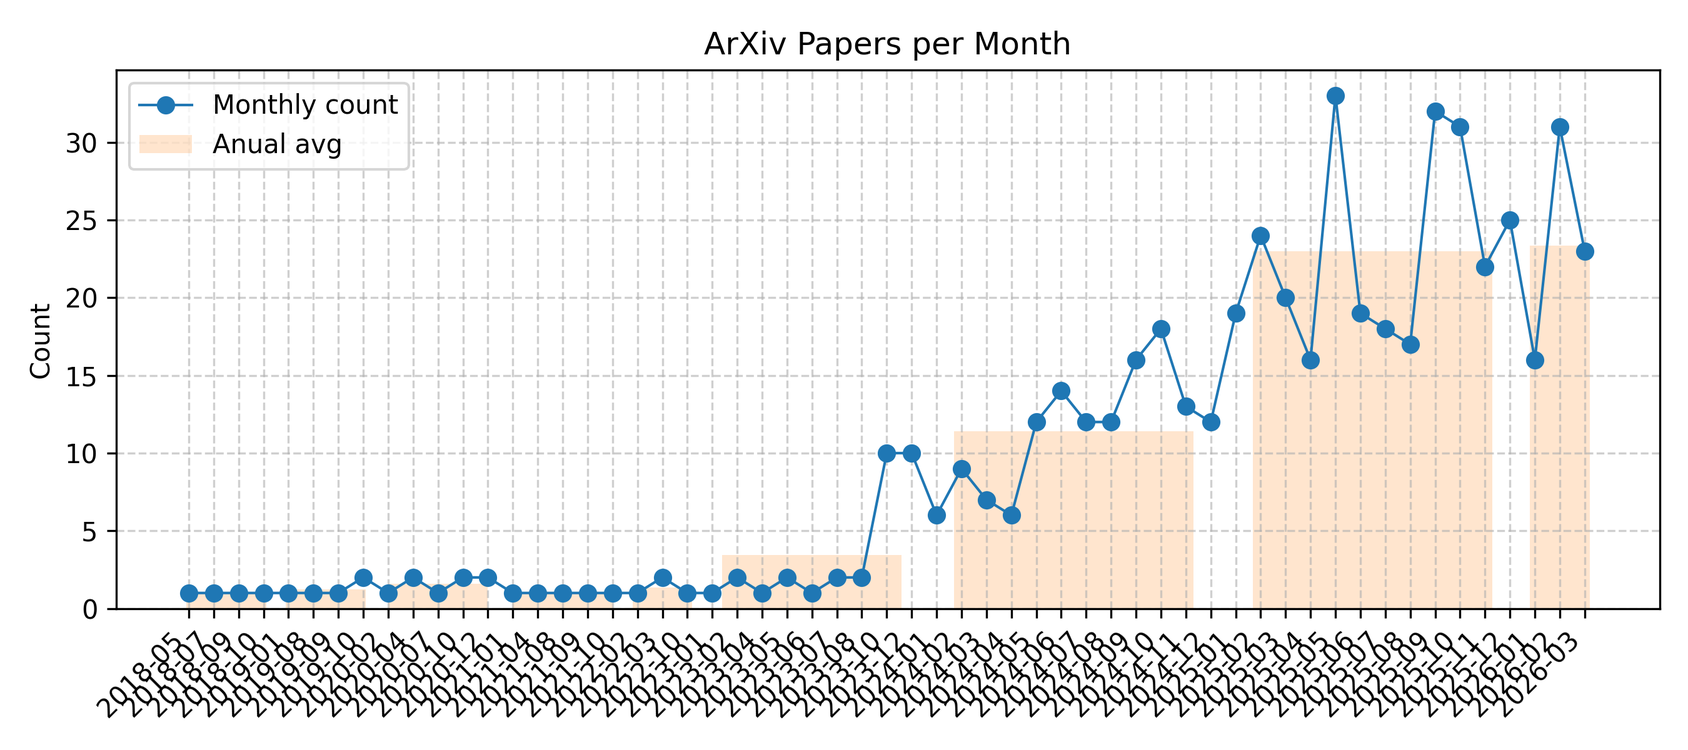
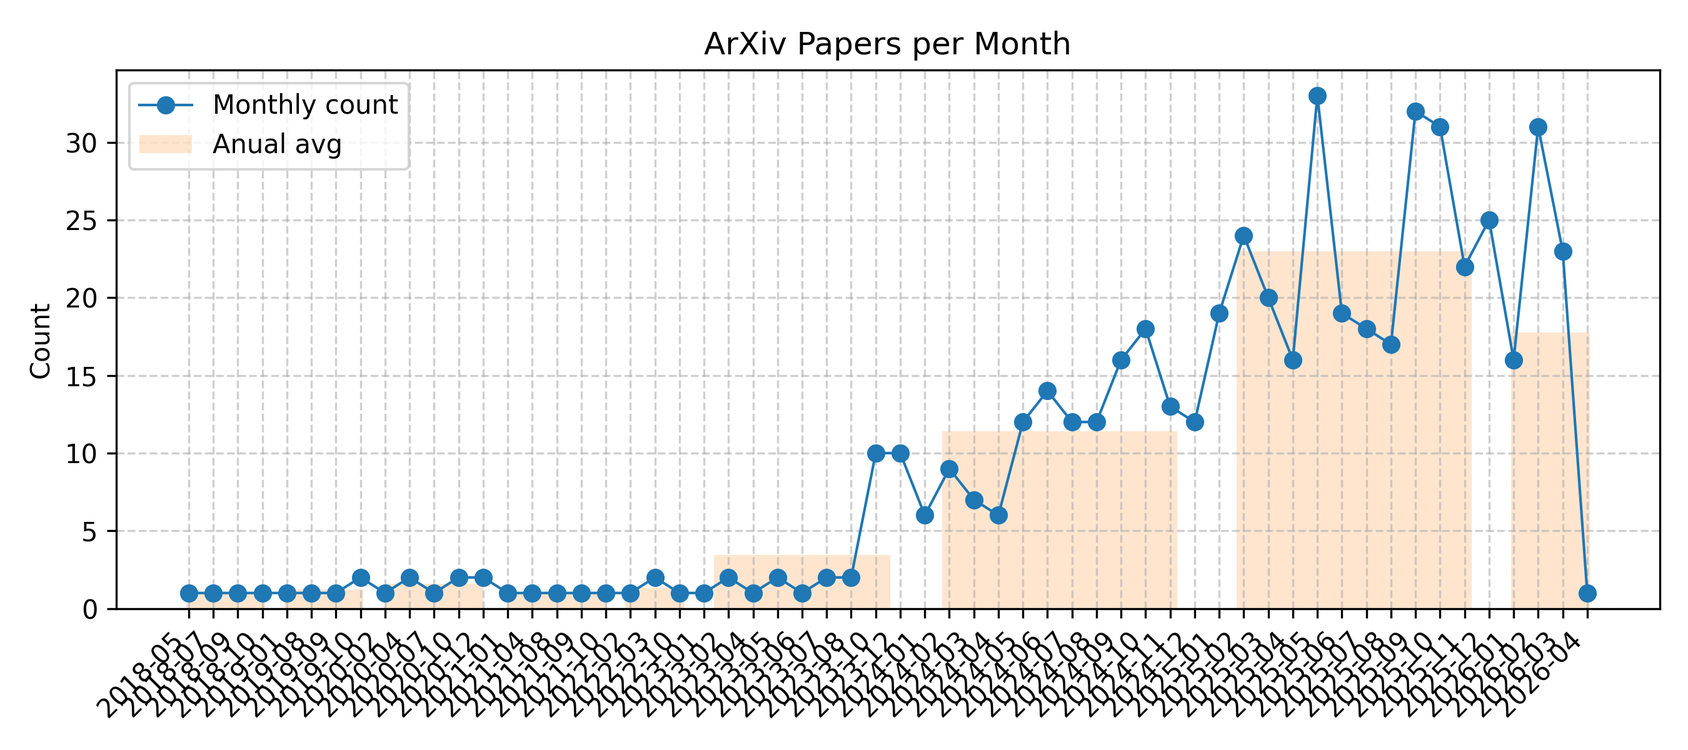
Github Action Automatic Update Mobile NPU LLM Arxiv Papers

Changed region(s): [[0.0622, 0.0925, 0.9644, 0.9558], [0.1556, 0.4008, 0.1867, 0.4933]]

diff --git a/README.md b/README.md
@@ -5,7 +5,7 @@
 
 For more carefully curated articles, you can refer to this [repository](https://github.com/bansky-cl/Mobile_NPU_LLM_Papers).
 
-## Updated on 2026.04.05
+## Updated on 2026.04.06
 
 ![Monthly Trend](imgs/trend.png)
 
@@ -18,7 +18,7 @@ For more carefully curated articles, you can refer to this [repository](https://
 |**2025-09-27**|**Scaling LLM Test-Time Compute with Mobile NPU on Smartphones**|cs.DC, cs.AI| <details><summary>Full Abstract</summary>Deploying Large Language Models (LLMs) on mobile devices faces the challenge of insufficient performance in smaller models and excessive resource consumption in larger ones. This paper highlights that mobile Neural Processing Units (NPUs) have underutilized computational resources, particularly their matrix multiplication units, during typical LLM inference. To leverage this wasted compute capacity, we propose applying parallel test-time scaling techniques on mobile NPUs to enhance the performance of smaller LLMs. However, this approach confronts inherent NPU challenges, including inadequate hardware support for fine-grained quantization and low efficiency in general-purpose computations. To overcome these, we introduce two key techniques: a hardware-aware tile quantization scheme that aligns group quantization with NPU memory access patterns, and efficient LUT-based replacements for complex operations such as Softmax and dequantization. We design and implement an end-to-end inference system that leverages the NPU's compute capability to support test-time scaling on Qualcomm Snapdragon platforms. Experiments show our approach brings significant speedups: up to 19.0 for mixed-precision GEMM and 2.2 for Softmax. More importantly, we demonstrate that smaller models using test-time scaling can match or exceed the accuracy of larger models, achieving a new performance-cost Pareto frontier.</details>|[2509.23324v1](http://arxiv.org/abs/2509.23324v1)| null|
 |**2024-12-15**|**Fast On-device LLM Inference with NPUs**|cs.AI| <details><summary>Full Abstract</summary>On-device inference for Large Language Models (LLMs), driven by increasing privacy concerns and advancements of mobile-sized models, has gained significant interest. However, even mobile-sized LLMs (e.g., Gemma-2B) encounter unacceptably high inference latency, often bottlenecked by the prefill stage in tasks like screen UI understanding.   We present llm.npu, the first LLM inference system utilizing on-device Neural Processing Unit (NPU) offloading to reduce prefill latency. llm.npu enhances NPU offloading efficiency by re-constructing the prompt and model in three levels: (1) At prompt level, it divides variable-length prompts into multiple fixed-sized chunks while maintaining data dependencies; (2) At tensor level, it identifies and extracts significant outliers to run on the CPU/GPU in parallel with minimal overhead; (3) At block level, it schedules Transformer blocks in an out-of-order manner to the CPU/GPU and NPU based on their hardware affinity and sensitivity to accuracy. Compared to competitive baselines, llm.npu achieves 22.4x faster prefill speed and 30.7$\times$ energy savings on average, and up to 32.8x speedup in an end-to-end real-world application. For the first time, llm.npu achieves more than 1,000 tokens/sec prefilling for a billion-sized model.</details>|[2407.05858v2](http://arxiv.org/abs/2407.05858v2)| null|
 
-<p align=right>(<a href=#Updated-on-20260405>back to top</a>)</p>
+<p align=right>(<a href=#Updated-on-20260406>back to top</a>)</p>
 
 ## mobile_optimization
 
@@ -61,12 +61,13 @@ For more carefully curated articles, you can refer to this [repository](https://
 |**2020-11-30**|**Extreme Model Compression for On-device Natural Language Understanding**|cs.CL, cs.AI, cs.LG| <details><summary>Full Abstract</summary>In this paper, we propose and experiment with techniques for extreme compression of neural natural language understanding (NLU) models, making them suitable for execution on resource-constrained devices. We propose a task-aware, end-to-end compression approach that performs word-embedding compression jointly with NLU task learning. We show our results on a large-scale, commercial NLU system trained on a varied set of intents with huge vocabulary sizes. Our approach outperforms a range of baselines and achieves a compression rate of 97.4% with less than 3.7% degradation in predictive performance. Our analysis indicates that the signal from the downstream task is important for effective compression with minimal degradation in performance.</details>|[2012.00124v1](http://arxiv.org/abs/2012.00124v1)| null|
 |**2018-09-27**|**Adaptive Pruning of Neural Language Models for Mobile Devices**|cs.CL, cs.LG| <details><summary>Full Abstract</summary>Neural language models (NLMs) exist in an accuracy-efficiency tradeoff space where better perplexity typically comes at the cost of greater computation complexity. In a software keyboard application on mobile devices, this translates into higher power consumption and shorter battery life. This paper represents the first attempt, to our knowledge, in exploring accuracy-efficiency tradeoffs for NLMs. Building on quasi-recurrent neural networks (QRNNs), we apply pruning techniques to provide a "knob" to select different operating points. In addition, we propose a simple technique to recover some perplexity using a negligible amount of memory. Our empirical evaluations consider both perplexity as well as energy consumption on a Raspberry Pi, where we demonstrate which methods provide the best perplexity-power consumption operating point. At one operating point, one of the techniques is able to provide energy savings of 40% over the state of the art with only a 17% relative increase in perplexity.</details>|[1809.10282v1](http://arxiv.org/abs/1809.10282v1)| null|
 
-<p align=right>(<a href=#Updated-on-20260405>back to top</a>)</p>
+<p align=right>(<a href=#Updated-on-20260406>back to top</a>)</p>
 
 ## edge_inference
 
 |Date|Title|label|Abstract|PDF|Code|
 |---|---|---|---|---|---|
+|**2026-04-03**|**MSAO: Adaptive Modality Sparsity-Aware Offloading with Edge-Cloud Collaboration for Efficient Multimodal LLM Inference**|cs.DC| <details><summary>Full Abstract</summary>Multimodal large language models (MLLMs) enable powerful cross-modal reasoning capabilities but impose substantial computational and latency burdens, posing critical challenges for deployment on resource-constrained edge devices. In this paper, we propose MSAO, an adaptive modality sparsity-aware offloading framework with edge-cloud collaboration for efficient MLLM Inference. First, a lightweight heterogeneous modality-aware via fine-grained sparsity module performs spatial-temporal-modal joint analysis to compute the Modality Activation Sparsity (MAS) metric, which quantifies the necessity of each modality with minimal computational overhead. Second, an adaptive speculative edge-cloud collaborative offloading mechanism dynamically schedules workloads between edge and cloud based on the derived MAS scores and real-time system states, leveraging confidence-guided speculative execution to hide communication latency. Extensive experiments on VQAv2 and MMBench benchmarks demonstrate that MSAO achieves a 30% reduction in end-to-end latency and 30%-65% decrease in resource overhead, while delivering a throughput improvement of 1.5x to 2.3x compared to traditional approaches, all without compromising competitive accuracy.</details>|[2604.02945v1](http://arxiv.org/abs/2604.02945v1)| null|
 |**2026-03-24**|**LLM Inference at the Edge: Mobile, NPU, and GPU Performance Efficiency Trade-offs Under Sustained Load**|cs.DC, cs.LG| <details><summary>Full Abstract</summary>Deploying large language models on-device for always-on personal agents demands sustained inference from hardware tightly constrained in power, thermal envelope, and memory. We benchmark Qwen 2.5 1.5B (4-bit quantised) across four platforms: a Raspberry Pi 5 with Hailo-10H NPU, a Samsung Galaxy S24 Ultra, an iPhone 16 Pro, and a laptop NVIDIA RTX 4050 GPU. Using a fixed 258-token prompt over 20 warm-condition iterations per device, we measure throughput, latency, power, and thermal behaviour. For mobile platforms, thermal management supersedes peak compute as the primary constraint: the iPhone 16 Pro loses nearly half its throughput within two iterations, and the S24 Ultra suffers a hard OS-enforced GPU frequency floor that terminates inference entirely. On dedicated hardware, distinct constraints dominate: the RTX 4050 is bounded by its battery power ceiling, while the Hailo-10H is limited by on-module memory bandwidth. The RTX 4050 sustains 131.7 tok/s at 34.1 W; the Hailo-10H sustains 6.9 tok/s at under 2 W with near-zero variance, matching the RTX 4050 in energy proportionality at 19x lower throughput. Results should be interpreted as platform-level deployment characterisations for a single model and prompt type, reflecting hardware and software combined, rather than general claims about hardware capability alone.</details>|[2603.23640v1](http://arxiv.org/abs/2603.23640v1)| null|
 |**2026-03-27**|**A Pipelined Collaborative Speculative Decoding Framework for Efficient Edge-Cloud LLM Inference**|cs.DC| <details><summary>Full Abstract</summary>Recent advancements and widespread adoption of Large Language Models (LLMs) in both industry and academia have catalyzed significant demand for LLM serving. However, traditional cloud services incur high costs, while on-device inference alone faces challenges due to limited resources. Edge-cloud collaboration emerges as a key research direction to combine the strengths of both paradigms, yet efficiently utilizing limited network bandwidth while fully leveraging and balancing the computational capabilities of edge devices and the cloud remains an open problem. To address these challenges, we propose Pipelined Collaborative Speculative Decoding Framework (PicoSpec), a novel, general-purpose, and training-free speculative decoding framework for LLM edge-cloud collaborative inference. We design an asynchronous pipeline that resolves the mutual waiting problem inherent in vanilla speculative decoding within edge collaboration scenarios, which concurrently executes a Small Language Model (SLM) on the edge device and a LLM in the cloud. Meanwhile, to mitigate the significant communication latency caused by transmitting vocabulary distributions, we introduce separate rejection sampling with sparse compression, which completes the rejection sampling with only a one-time cost of transmitting the compressed vocabulary. Experimental results demonstrate that our solution outperforms baseline and existing methods, achieving up to 2.9 speedup.</details>|[2603.19133v2](http://arxiv.org/abs/2603.19133v2)| null|
 |**2026-02-17**|**Agent Memory Below the Prompt: Persistent Q4 KV Cache for Multi-Agent LLM Inference on Edge Devices**|cs.LG, cs.AI| <details><summary>Full Abstract</summary>Multi-agent LLM systems on edge devices face a memory management problem: device RAM is too small to hold every agent's KV cache simultaneously. On Apple M4 Pro with 10.2 GB of cache budget, only 3 agents fit at 8K context in FP16. A 10-agent workflow must constantly evict and reload caches. Without persistence, every eviction forces a full re-prefill through the model -- 15.7 seconds per agent at 4K context. We address this by persisting each agent's KV cache to disk in 4-bit quantized format and reloading it directly into the attention layer, eliminating redundant O(n) prefill computation via direct cache restoration. The system comprises three components: a block pool providing per-agent isolated Q4 KV caches in safetensors format, a BatchQuantizedKVCache for concurrent inference over multiple agents' quantized caches, and cross-phase context injection that accumulates attention state across conversation phases without re-computation. Evaluated on three architectures (Gemma 3 12B, dense GQA, 48 layers; DeepSeek-Coder-V2-Lite 16B, MoE MLA, 27 layers; Llama 3.1 8B, dense GQA, 32 layers), cache restoration reduces time-to-first-token by up to 136x (Gemma: 22--136x at 4K--32K; DeepSeek: 11--76x at 4K--32K; Llama: 24--111x at 4K--16K; 3--10x at 1K). Q4 quantization fits 4x more agent contexts into fixed device memory than FP16. Perplexity measured with actual Q4 KV caches shows -0.7% for Gemma, +2.8% for Llama, and +3.0% for DeepSeek. Open-source at https://github.com/yshk-mxim/agent-memory</details>|[2603.04428v1](http://arxiv.org/abs/2603.04428v1)| null|
@@ -139,7 +140,7 @@ For more carefully curated articles, you can refer to this [repository](https://
 |**2025-04-21**|**Agile-Quant: Activation-Guided Quantization for Faster Inference of LLMs on the Edge**|cs.LG, cs.AI, cs.CL| <details><summary>Full Abstract</summary>Large Language Models (LLMs) stand out for their impressive performance in intricate language modeling tasks. However, their demanding computational and memory needs pose obstacles for broad use on edge devices. Quantization is then introduced to boost LLMs' on-device efficiency. Recent works show that 8-bit or lower weight quantization is feasible with minimal impact on end-to-end task performance, while the activation is still not quantized. On the other hand, mainstream commodity edge devices still struggle to execute these sub-8-bit quantized networks effectively. In this paper, we propose Agile-Quant, an activation-guided quantization framework for popular Large Language Models (LLMs), and implement an end-to-end accelerator on multiple edge devices for faster inference. Considering the hardware profiling and activation analysis, we first introduce a basic activation quantization strategy to balance the trade-off of task performance and real inference speed. Then we leverage the activation-aware token pruning technique to reduce the outliers and the adverse impact on attentivity. Ultimately, we utilize the SIMD-based 4-bit multiplier and our efficient TRIP matrix multiplication to implement the accelerator for LLMs on the edge. We apply our framework on different scales of LLMs including LLaMA, OPT, and BLOOM with 4-bit or 8-bit for the activation and 4-bit for the weight quantization. Experiments show that Agile-Quant achieves simultaneous quantization of model weights and activations while maintaining task performance comparable to existing weight-only quantization methods. Moreover, in the 8- and 4-bit scenario, Agile-Quant achieves an on-device speedup of up to 2.55x compared to its FP16 counterparts across multiple edge devices, marking a pioneering advancement in this domain. Code: https://github.com/shawnricecake/agile-quant</details>|[2312.05693v2](http://arxiv.org/abs/2312.05693v2)| null|
 |**2023-12-01**|**LinguaLinked: A Distributed Large Language Model Inference System for Mobile Devices**|cs.LG, cs.DC, cs.NI| <details><summary>Full Abstract</summary>Deploying Large Language Models (LLMs) locally on mobile devices presents a significant challenge due to their extensive memory requirements. In this paper, we introduce LinguaLinked, a system for decentralized, distributed LLM inference on mobile devices. LinguaLinked enables collaborative execution of the inference task across multiple trusted devices. LinguaLinked ensures data privacy by processing information locally. LinguaLinked uses three key strategies. First, an optimized model assignment technique segments LLMs and uses linear optimization to align segments with each device's capabilities. Second, an optimized data transmission mechanism ensures efficient and structured data flow between model segments while also maintaining the integrity of the original model structure. Finally, LinguaLinked incorporates a runtime load balancer that actively monitors and redistributes tasks among mobile devices to prevent bottlenecks, enhancing the system's overall efficiency and responsiveness. We demonstrate that LinguaLinked facilitates efficient LLM inference while maintaining consistent throughput and minimal latency through extensive testing across various mobile devices, from high-end to low-end Android devices. In our evaluations, compared to the baseline, LinguaLinked achieves an inference performance acceleration of $1.11\times$ to $1.61\times$ in single-threaded settings, $1.73\times$ to $2.65\times$ with multi-threading. Additionally, runtime load balancing yields an overall inference acceleration of $1.29\times$ to $1.32\times$.</details>|[2312.00388v1](http://arxiv.org/abs/2312.00388v1)| null|
 
-<p align=right>(<a href=#Updated-on-20260405>back to top</a>)</p>
+<p align=right>(<a href=#Updated-on-20260406>back to top</a>)</p>
 
 ## npu_acceleration
 
@@ -542,7 +543,7 @@ For more carefully curated articles, you can refer to this [repository](https://
 |**2019-07-17**|**Understanding and Accelerating Particle-Based Variational Inference**|stat.ML, cs.LG| <details><summary>Full Abstract</summary>Particle-based variational inference methods (ParVIs) have gained attention in the Bayesian inference literature, for their capacity to yield flexible and accurate approximations. We explore ParVIs from the perspective of Wasserstein gradient flows, and make both theoretical and practical contributions. We unify various finite-particle approximations that existing ParVIs use, and recognize that the approximation is essentially a compulsory smoothing treatment, in either of two equivalent forms. This novel understanding reveals the assumptions and relations of existing ParVIs, and also inspires new ParVIs. We propose an acceleration framework and a principled bandwidth-selection method for general ParVIs; these are based on the developed theory and leverage the geometry of the Wasserstein space. Experimental results show the improved convergence by the acceleration framework and enhanced sample accuracy by the bandwidth-selection method.</details>|[1807.01750v4](http://arxiv.org/abs/1807.01750v4)| null|
 |**2019-10-17**|**Ergodic Inference: Accelerate Convergence by Optimisation**|cs.LG, stat.ML| <details><summary>Full Abstract</summary>Statistical inference methods are fundamentally important in machine learning. Most state-of-the-art inference algorithms are variants of Markov chain Monte Carlo (MCMC) or variational inference (VI). However, both methods struggle with limitations in practice: MCMC methods can be computationally demanding; VI methods may have large bias. In this work, we aim to improve upon MCMC and VI by a novel hybrid method based on the idea of reducing simulation bias of finite-length MCMC chains using gradient-based optimisation. The proposed method can generate low-biased samples by increasing the length of MCMC simulation and optimising the MCMC hyper-parameters, which offers attractive balance between approximation bias and computational efficiency. We show that our method produces promising results on popular benchmarks when compared to recent hybrid methods of MCMC and VI.</details>|[1805.10377v4](http://arxiv.org/abs/1805.10377v4)| null|
 
-<p align=right>(<a href=#Updated-on-20260405>back to top</a>)</p>
+<p align=right>(<a href=#Updated-on-20260406>back to top</a>)</p>
 
 ## mobile_llm_systems
 
@@ -579,7 +580,7 @@ For more carefully curated articles, you can refer to this [repository](https://
 |**2024-10-27**|**Large Language Models as Urban Residents: An LLM Agent Framework for Personal Mobility Generation**|cs.AI, cs.CL, cs.CY, cs.LG| <details><summary>Full Abstract</summary>This paper introduces a novel approach using Large Language Models (LLMs) integrated into an agent framework for flexible and effective personal mobility generation. LLMs overcome the limitations of previous models by effectively processing semantic data and offering versatility in modeling various tasks. Our approach addresses three research questions: aligning LLMs with real-world urban mobility data, developing reliable activity generation strategies, and exploring LLM applications in urban mobility. The key technical contribution is a novel LLM agent framework that accounts for individual activity patterns and motivations, including a self-consistency approach to align LLMs with real-world activity data and a retrieval-augmented strategy for interpretable activity generation. We evaluate our LLM agent framework and compare it with state-of-the-art personal mobility generation approaches, demonstrating the effectiveness of our approach and its potential applications in urban mobility. Overall, this study marks the pioneering work of designing an LLM agent framework for activity generation based on real-world human activity data, offering a promising tool for urban mobility analysis.</details>|[2402.14744v3](http://arxiv.org/abs/2402.14744v3)| null|
 |**2023-12-01**|**LinguaLinked: A Distributed Large Language Model Inference System for Mobile Devices**|cs.LG, cs.DC, cs.NI| <details><summary>Full Abstract</summary>Deploying Large Language Models (LLMs) locally on mobile devices presents a significant challenge due to their extensive memory requirements. In this paper, we introduce LinguaLinked, a system for decentralized, distributed LLM inference on mobile devices. LinguaLinked enables collaborative execution of the inference task across multiple trusted devices. LinguaLinked ensures data privacy by processing information locally. LinguaLinked uses three key strategies. First, an optimized model assignment technique segments LLMs and uses linear optimization to align segments with each device's capabilities. Second, an optimized data transmission mechanism ensures efficient and structured data flow between model segments while also maintaining the integrity of the original model structure. Finally, LinguaLinked incorporates a runtime load balancer that actively monitors and redistributes tasks among mobile devices to prevent bottlenecks, enhancing the system's overall efficiency and responsiveness. We demonstrate that LinguaLinked facilitates efficient LLM inference while maintaining consistent throughput and minimal latency through extensive testing across various mobile devices, from high-end to low-end Android devices. In our evaluations, compared to the baseline, LinguaLinked achieves an inference performance acceleration of $1.11\times$ to $1.61\times$ in single-threaded settings, $1.73\times$ to $2.65\times$ with multi-threading. Additionally, runtime load balancing yields an overall inference acceleration of $1.29\times$ to $1.32\times$.</details>|[2312.00388v1](http://arxiv.org/abs/2312.00388v1)| null|
 
-<p align=right>(<a href=#Updated-on-20260405>back to top</a>)</p>
+<p align=right>(<a href=#Updated-on-20260406>back to top</a>)</p>
 
 ## specific_papers
 
@@ -589,7 +590,7 @@ For more carefully curated articles, you can refer to this [repository](https://
 |**2025-10-04**|**Characterizing Mobile SoC for Accelerating Heterogeneous LLM Inference**|cs.DC, cs.AI, cs.LG| <details><summary>Full Abstract</summary>With the rapid advancement of artificial intelligence technologies such as ChatGPT, AI agents, and video generation, contemporary mobile systems have begun integrating these AI capabilities on local devices to enhance privacy and reduce response latency. To meet the computational demands of AI tasks, current mobile SoCs are equipped with diverse AI accelerators, including GPUs and Neural Processing Units (NPUs). However, there has not been a comprehensive characterization of these heterogeneous processors, and existing designs typically only leverage a single AI accelerator for LLM inference, leading to suboptimal use of computational resources and memory bandwidth.   In this paper, we first summarize key performance characteristics of heterogeneous processors, SoC memory bandwidth, etc. Drawing on these observations, we propose different heterogeneous parallel mechanisms to fully exploit both GPU and NPU computational power and memory bandwidth. We further design a fast synchronization mechanism between heterogeneous processors that leverages the unified memory architecture. By employing these techniques, we present HeteroInfer, the fastest LLM inference engine in mobile devices which supports GPU-NPU heterogeneous execution. Evaluation shows that HeteroInfer delivers a 1.34x to 6.02x end-to-end speedup over state-of-the-art GPU-only and NPU-only LLM engines, while maintaining negligible interference with other applications.</details>|[2501.14794v2](http://arxiv.org/abs/2501.14794v2)| null|
 |**2024-12-15**|**Fast On-device LLM Inference with NPUs**|cs.AI| <details><summary>Full Abstract</summary>On-device inference for Large Language Models (LLMs), driven by increasing privacy concerns and advancements of mobile-sized models, has gained significant interest. However, even mobile-sized LLMs (e.g., Gemma-2B) encounter unacceptably high inference latency, often bottlenecked by the prefill stage in tasks like screen UI understanding.   We present llm.npu, the first LLM inference system utilizing on-device Neural Processing Unit (NPU) offloading to reduce prefill latency. llm.npu enhances NPU offloading efficiency by re-constructing the prompt and model in three levels: (1) At prompt level, it divides variable-length prompts into multiple fixed-sized chunks while maintaining data dependencies; (2) At tensor level, it identifies and extracts significant outliers to run on the CPU/GPU in parallel with minimal overhead; (3) At block level, it schedules Transformer blocks in an out-of-order manner to the CPU/GPU and NPU based on their hardware affinity and sensitivity to accuracy. Compared to competitive baselines, llm.npu achieves 22.4x faster prefill speed and 30.7$\times$ energy savings on average, and up to 32.8x speedup in an end-to-end real-world application. For the first time, llm.npu achieves more than 1,000 tokens/sec prefilling for a billion-sized model.</details>|[2407.05858v2](http://arxiv.org/abs/2407.05858v2)| null|
 
-<p align=right>(<a href=#Updated-on-20260405>back to top</a>)</p>
+<p align=right>(<a href=#Updated-on-20260406>back to top</a>)</p>
 
 [contributors-shield]: https://img.shields.io/github/contributors/bansky-cl/mobile-npu-llm-paper-arxiv.svg?style=for-the-badge
 [contributors-url]: https://github.com/bansky-cl/mobile-npu-llm-paper-arxiv/graphs/contributors
